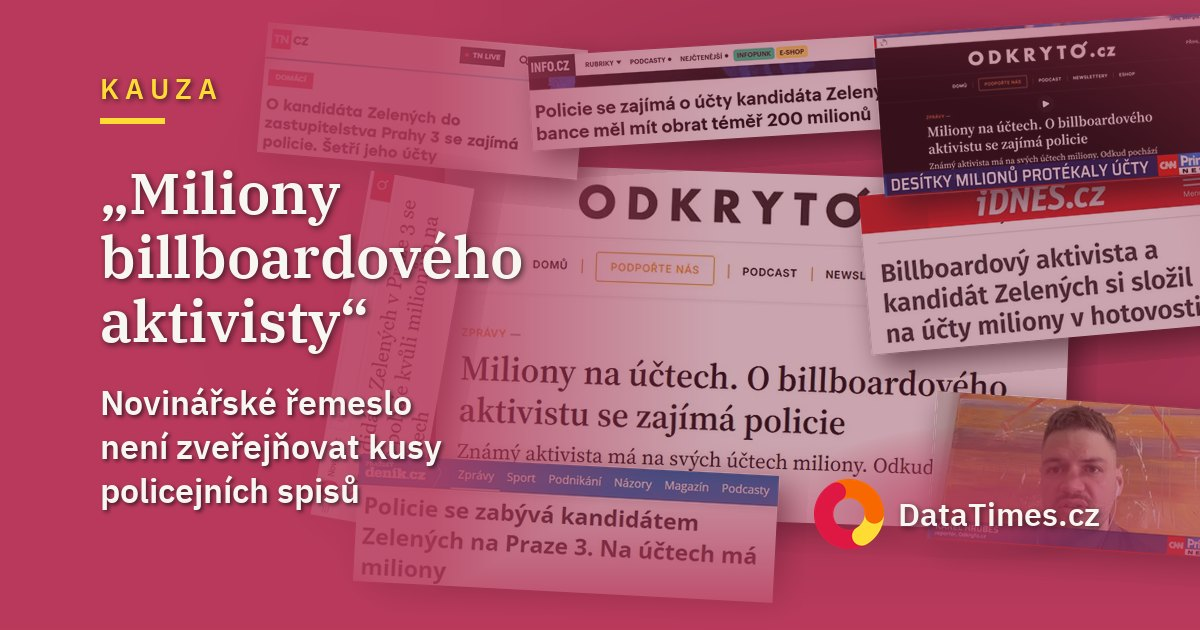
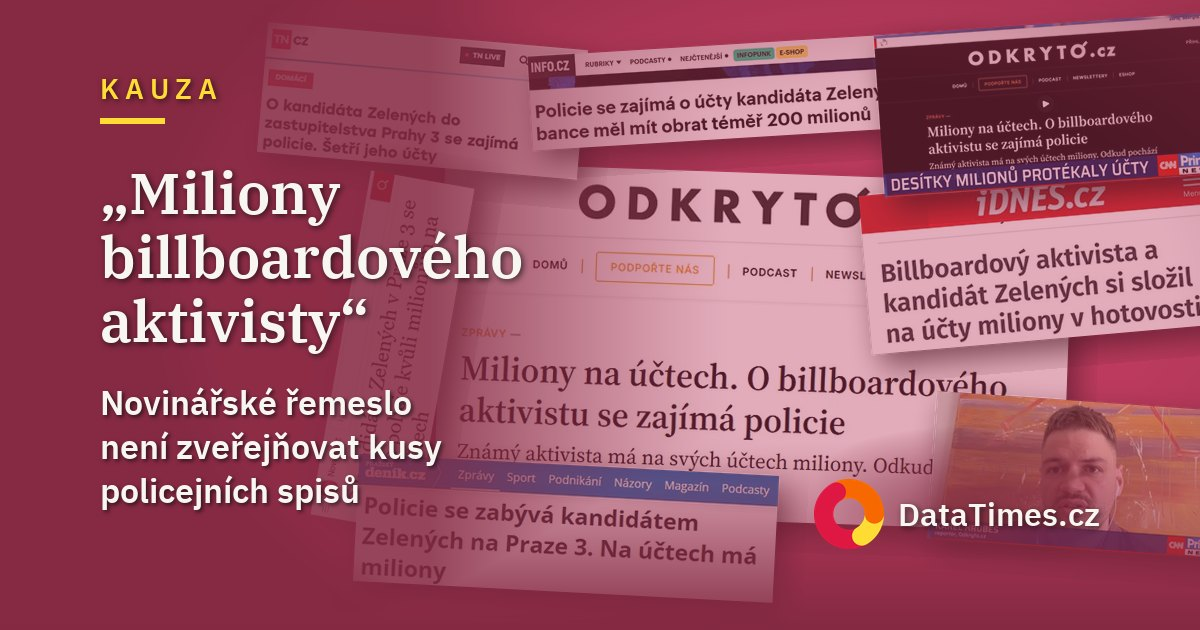
design(kauza Jahn): tmavší obvod coveru (#812840), světlejší střed (#bb3a5d); coverBg brandDeepRed.7

diff --git a/apps/web/app/clanek/_articles/kontext-2026-09-28-novinarske-remeslo-neni-opisovat-policejni-spisy/index.md b/apps/web/app/clanek/_articles/kontext-2026-09-28-novinarske-remeslo-neni-opisovat-policejni-spisy/index.md
@@ -5,7 +5,7 @@ author: "Kateřina Mahdalová"
 excerpt: "Kandidát Zelených Zdeněk Jahn není obviněný ani vyšetřovaný. Policie potvrdila jediné: že se věcí zabývá. Z anonymních „zjištění“ o obratu na jeho účtech přesto vznikly titulky celostátních médií. Jak se ven dostává policejní práce, která je teprve ve fázi prověřování."
 coverImage: "images/cover-novinarske-remeslo-datatimes.jpg"
 coverFit: contain
-coverBg: "brandDeepRed.5"
+coverBg: "brandDeepRed.7"
 filter: ["kontext"]
 tags: ["média", "svoboda médií", "moc médií", "vliv médií"]
 promoted: 1
